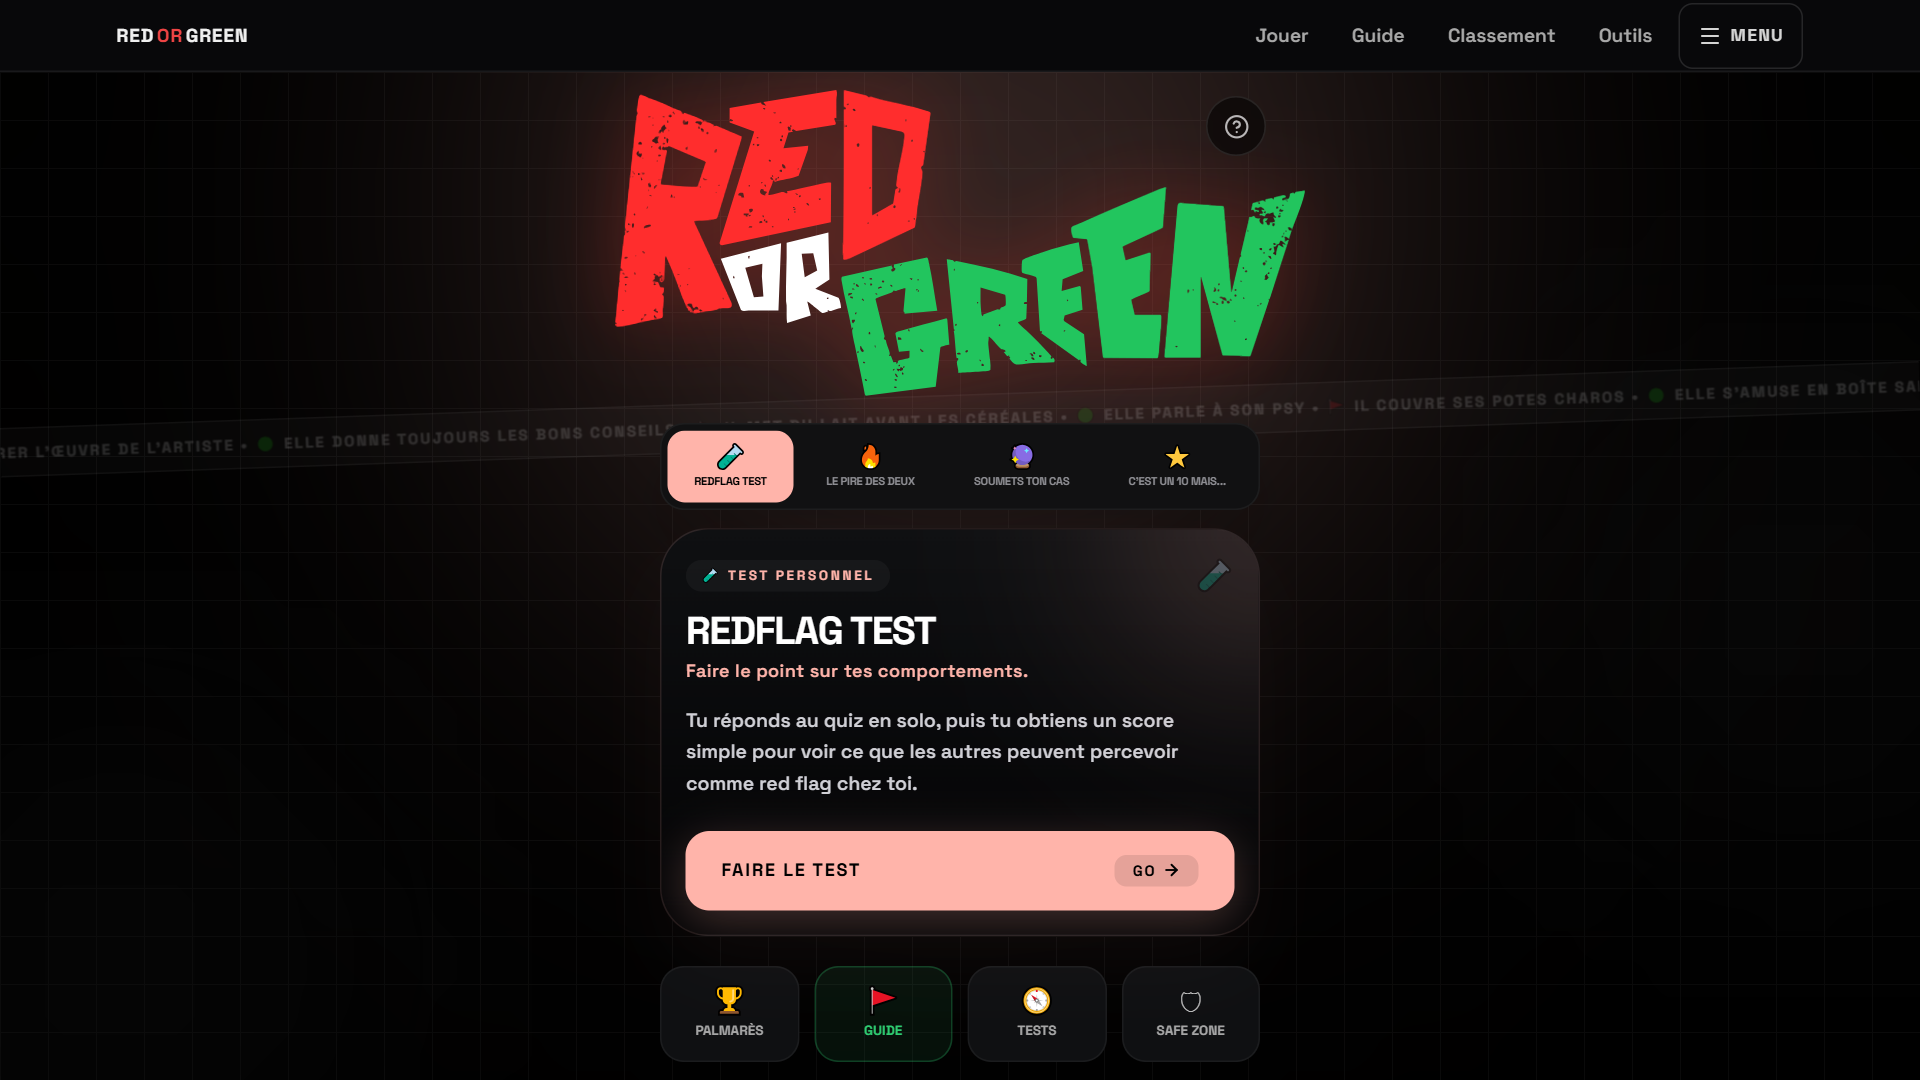
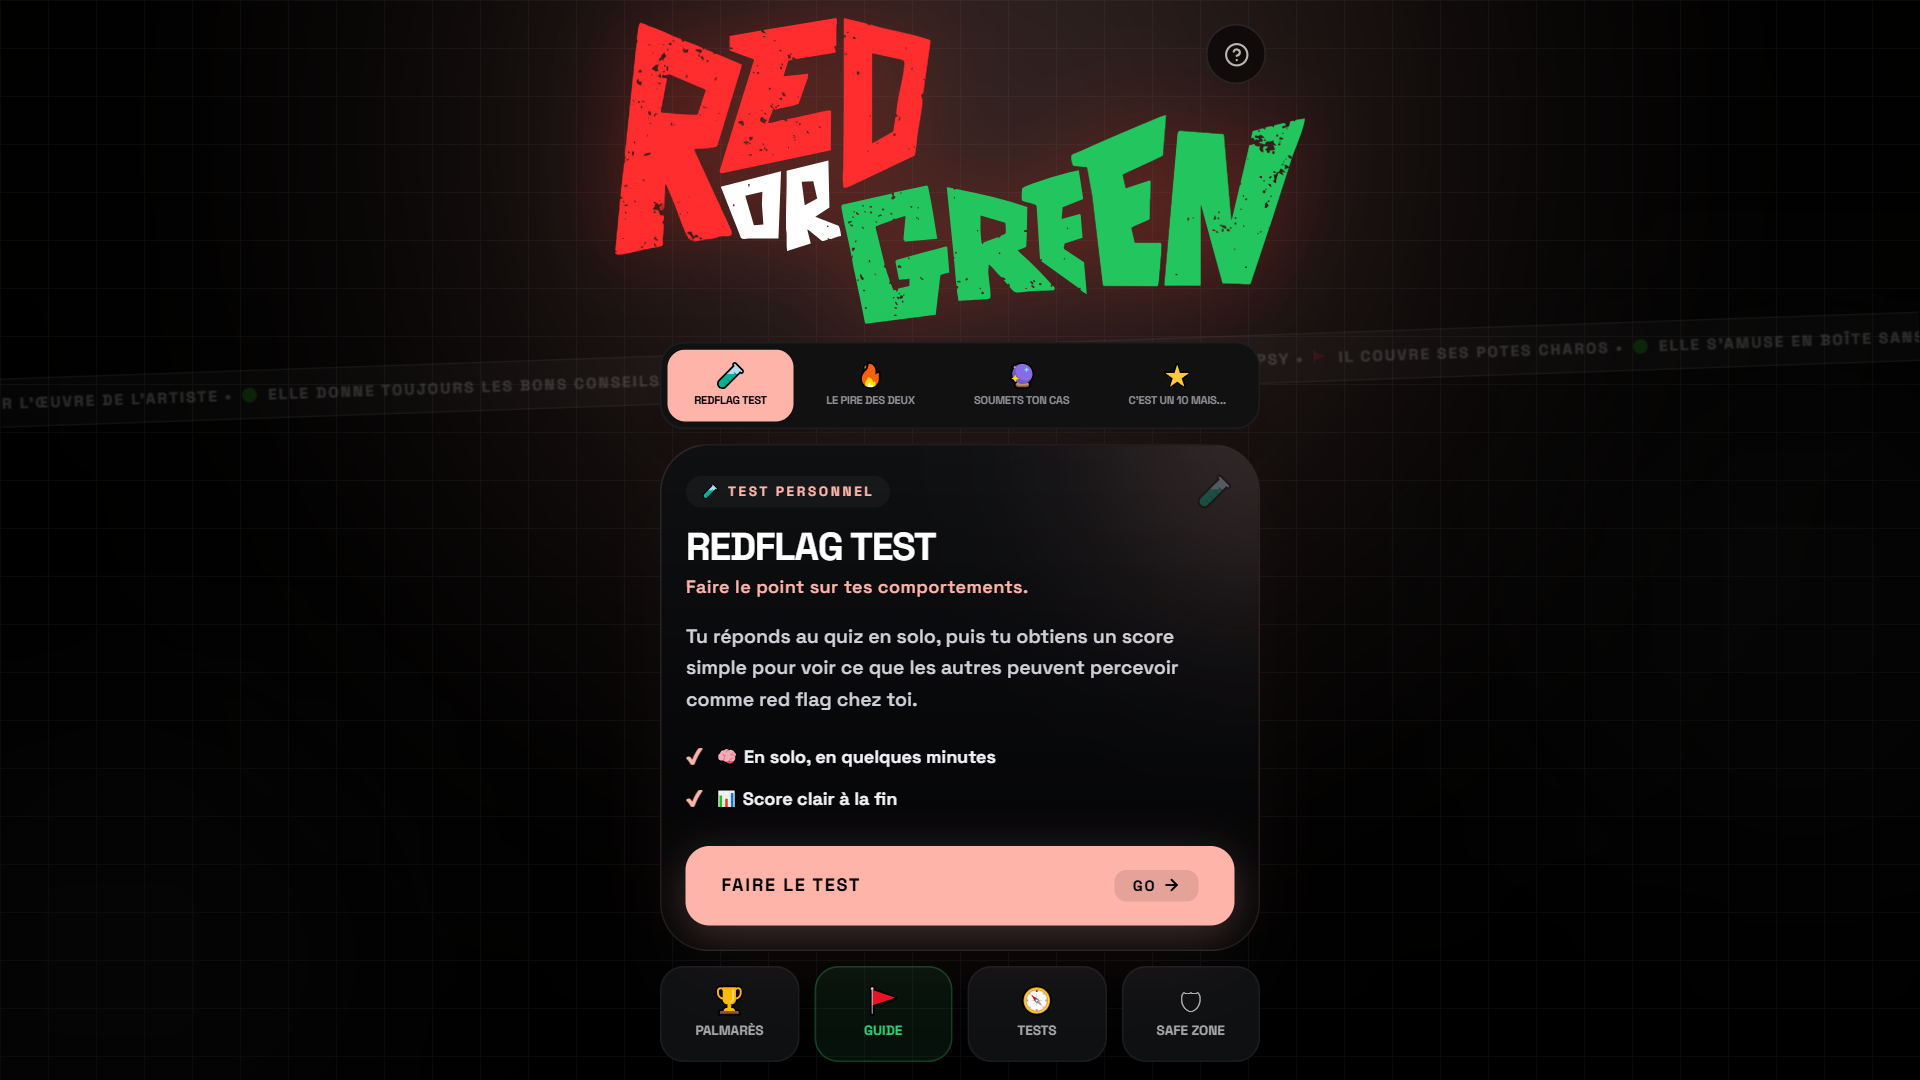
Accueil : retirer la barre de menu et resserrer la mise en page
Quatre corrections a la passe precedente, sur retour d'usage.

La barre de navigation du site n'est plus rendue sur l'accueil. Elle y
repetait la marque une seconde fois, vingt pixels au-dessus du logo, pour
52 px de hauteur pris sur l'ecran ou chaque pixel se dispute au
descriptif des jeux. Le plan du site reste atteignable par le pied de
page, replie juste dessous, et l'accueil porte deja sa propre navigation
— quatre onglets de jeu et quatre raccourcis. La barre reste presente
partout ailleurs, ou elle est le seul chemin visible vers le reste du
site. Le hub occupe desormais `100dvh` pleine hauteur et degage l'encoche
lui-meme.

L'espace entre la rangee d'onglets et la carte venait d'un melange de
marges disparates sur chaque enfant, dont la carte se centrait dans
l'espace restant : le vide se creusait donc au-dessus ET au-dessous
d'elle. Les ecarts sont desormais uniformes et portes par le conteneur,
et la carte remplit ce qui reste au lieu d'y flotter. Son texte se centre
dans sa hauteur, le bouton reste cale en bas — sous le pouce.

Le logo retrouve la taille qu'il avait : les paliers qui le reduisaient
sur ecran court sont retires, la place gagnee sur la barre les rend
inutiles.

Le palier destine a l'iPhone SE de 2016 (320x568) est abandonne. Il
masquait l'accroche des cartes, qui redevient visible partout.

Verifie sur les quatre jeux et six formats, de 360x640 a 430x932 plus le
bureau : rien n'est rogne, descriptif et accroche sont visibles, et la
[…]

diff --git a/game/src/app/HubClient.tsx b/game/src/app/HubClient.tsx
@@ -170,7 +170,7 @@ export function HubClient() {
   const activeCard = CARDS_DATA[selectedVibe];
 
   return (
-    <div className="relative min-h-[calc(100dvh-var(--header-h,3rem))] overflow-hidden bg-[#000000] text-[#E2E2E2] selection:bg-[#FF3B30]/30 selection:text-white">
+    <div className="relative min-h-dvh overflow-hidden bg-[#000000] text-[#E2E2E2] selection:bg-[#FF3B30]/30 selection:text-white">
       {/* Dynamic Background Shader & Grid */}
       <div className="absolute inset-0 z-0 overflow-hidden pointer-events-none">
         {/* Sleek matrix grid */}
@@ -214,10 +214,15 @@ export function HubClient() {
           de l'écran. Un plafond réel donne son sens au `flex-1` de la carte —
           elle prend ce qui reste, ni plus, et fait défiler son texte au-dedans
           si nécessaire. Le hub tient alors sur un écran par construction, pas
-          par ajustement de valeurs. */}
+          par ajustement de valeurs.
+
+          `100dvh` pleine hauteur, sans soustraire `--header-h` : la barre de
+          navigation du site n'est pas rendue sur cette route (voir
+          `SiteHeader`). Le rembourrage haut dégage l'encoche à sa place. */}
       <main
         id="main-content"
-        className="relative z-10 mx-auto flex h-[calc(100dvh-var(--header-h,3rem))] w-full max-w-110 flex-col items-center justify-between px-5 py-6 [@media(max-height:1000px)]:py-3 [@media(max-height:700px)]:py-2"
+        className="relative z-10 mx-auto flex h-dvh w-full max-w-110 flex-col items-center gap-3 [@media(max-height:1000px)]:gap-2.5 px-5 pb-6 [@media(max-height:1000px)]:pb-3"
+        style={{ paddingTop: 'calc(env(safe-area-inset-top, 0px) + 0.75rem)' }}
       >
         
         {/* 1. Header (Minimalist & Branding Focus)
@@ -226,12 +231,12 @@ export function HubClient() {
             doigt, si bien que cette consigne coûtait une vingtaine de pixels
             pour redire ce que l'interface montre. Le geste de balayage
             fonctionne toujours. Ces pixels vont au descriptif des jeux. */}
-        <header className="w-full flex flex-col items-center pt-2 [@media(max-height:1000px)]:pt-0">
+        <header className="w-full shrink-0 flex flex-col items-center">
           {/* Centered Brand Logo - enlarged and dominant.
               Porté par le h1 : la page n'avait aucun titre de niveau 1, le
               logo n'étant qu'une image. Le nom accessible du titre vient de
               l'attribut alt — rien n'est ajouté de masqué. */}
-          <h1 className="py-2 [@media(max-height:1000px)]:py-0 scale-100 hover:scale-[1.01] active:scale-95 transition-transform duration-200">
+          <h1 className="scale-100 hover:scale-[1.01] active:scale-95 transition-transform duration-200">
             <Image
               src="/logo-rog-new.svg"
               alt="Red or Green — repérer les toxicités ordinaires"
@@ -243,7 +248,7 @@ export function HubClient() {
               height={86}
               priority
               draggable={false}
-              className="h-auto w-[88vw] [@media(max-height:1000px)]:w-[62vw] [@media(max-height:700px)]:w-[48vw] [@media(max-height:600px)]:w-[40vw] max-w-115 object-contain drop-shadow-[0_0_28px_rgba(255,59,48,0.3)]"
+              className="h-auto w-[88vw] [@media(max-height:1000px)]:w-[62vw] max-w-115 object-contain drop-shadow-[0_0_28px_rgba(255,59,48,0.3)]"
             />
           </h1>
         </header>
@@ -264,7 +269,7 @@ export function HubClient() {
         </button>
 
         {/* 2. Vibe Selector Capsule (Sliding layout indicator for 4 Games) */}
-        <div className="w-full bg-[#111112] border border-white/5 rounded-2xl p-1 mt-4 flex justify-between gap-1 relative shadow-2xl">
+        <div className="w-full shrink-0 bg-[#111112] border border-white/5 rounded-2xl p-1 flex justify-between gap-1 relative shadow-2xl">
           {(Object.keys(CARDS_DATA) as PersonaKey[]).map((key) => {
             const isSelected = selectedVibe === key;
             const data = CARDS_DATA[key];
@@ -304,7 +309,7 @@ export function HubClient() {
             et le hub débordait de la fenêtre — 762 px réclamés pour 592 sur un
             360×640, très répandu. Le bouton de lancement tombait alors pile sur
             la ligne de flottaison, à moitié sous la barre de navigation. */}
-        <div className="w-full my-6 [@media(max-height:1000px)]:my-3 [@media(max-height:700px)]:my-1.5 flex-1 min-h-0 flex flex-col justify-center">
+        <div className="w-full flex-1 min-h-0 flex flex-col">
           {/* `initial={false}` : la carte est l'élément LCP de la page. Sans
               cela elle est rendue à opacity 0 et n'apparaît qu'après
               l'hydratation, ce qui repousse le LCP de plusieurs secondes sur
@@ -317,7 +322,7 @@ export function HubClient() {
               exit={{ opacity: 0, scale: 0.95, y: -15 }}
               transition={{ duration: 0.25, ease: 'easeOut' }}
               whileHover={{ y: -4 }}
-              className="relative w-full min-h-0 max-h-full rounded-4xl border bg-linear-to-b from-[#0F1012] to-[#040405] p-6.5 [@media(max-height:1000px)]:p-4 [@media(max-height:700px)]:p-3.5 shadow-[0_30px_60px_-15px_rgba(0,0,0,0.85)] flex flex-col justify-between overflow-hidden"
+              className="relative w-full h-full min-h-0 rounded-4xl border bg-linear-to-b from-[#0F1012] to-[#040405] p-6.5 [@media(max-height:1000px)]:p-4 [@media(max-height:700px)]:p-3.5 shadow-[0_30px_60px_-15px_rgba(0,0,0,0.85)] flex flex-col justify-between overflow-hidden"
               style={{
                 borderColor: `${activeCard.themeColor}22`,
                 boxShadow: `0 25px 50px -12px ${activeCard.themeColor}0C`
@@ -340,7 +345,7 @@ export function HubClient() {
                   réduirait alors au seul bouton. `min-h-0` seul suffit — le
                   bloc prend sa hauteur naturelle, et ne se comprime que
                   lorsque le `max-h-full` de la carte l'y oblige. */}
-              <div className="min-h-0 overflow-y-auto overscroll-contain scrollbar-hide space-y-4 [@media(max-height:1000px)]:space-y-2.5 [@media(max-height:700px)]:space-y-2">
+              <div className="my-auto min-h-0 overflow-y-auto overscroll-contain scrollbar-hide space-y-4 [@media(max-height:1000px)]:space-y-2.5 [@media(max-height:700px)]:space-y-2">
                 {/* Mode Tag */}
                 <div className="flex items-center justify-between">
                   <span 
@@ -368,7 +373,7 @@ export function HubClient() {
                   >
                     {activeCard.title}
                   </h2>
-                  <p className="text-xs font-semibold tracking-wide [@media(max-height:600px)]:hidden" style={{ color: activeCard.themeColor }}>
+                  <p className="text-xs font-semibold tracking-wide" style={{ color: activeCard.themeColor }}>
                     {activeCard.tagline}
                   </p>
                 </div>
@@ -384,9 +389,9 @@ export function HubClient() {
                 </p>
 
                 {/* Specs / Bullet points */}
-                <ul className="space-y-2 [@media(max-height:600px)]:space-y-1 pt-2 [@media(max-height:600px)]:pt-1">
+                <ul className="space-y-2 pt-2">
                   {activeCard.bullets.map((bullet, idx) => (
-                    <li key={idx} className="flex items-center gap-2 text-[12px] [@media(max-height:600px)]:text-[11px] font-black text-[#F0F0F4]">
+                    <li key={idx} className="flex items-center gap-2 text-[12px] font-black text-[#F0F0F4]">
                       <span className="text-sm select-none" style={{ color: activeCard.themeColor }}>✔</span>
                       <span>{bullet}</span>
                     </li>
@@ -441,7 +446,7 @@ export function HubClient() {
             la grille 2×2 coûtait 144 px sous la carte, soit l'essentiel du
             débordement sur un 360×640. Les quatre entrées restent visibles
             dans les deux cas — seule leur disposition change. */}
-        <section className="w-full shrink-0 grid grid-cols-4 [@media(min-height:1001px)]:grid-cols-2 gap-2.5 mt-2 [@media(max-height:700px)]:mt-1">
+        <section className="w-full shrink-0 grid grid-cols-4 [@media(min-height:1001px)]:grid-cols-2 gap-2.5">
           {SHORTCUTS.map((shortcut) => {
             const content = (
               <>

diff --git a/game/src/components/ui/SiteHeader.tsx b/game/src/components/ui/SiteHeader.tsx
@@ -22,7 +22,14 @@ import Link from 'next/link';
 import { usePathname } from 'next/navigation';
 import { Menu } from 'lucide-react';
 
-const HIDDEN_PATHS = [/^\/admin(\/|$)/, /^\/dixmais\/admin(\/|$)/];
+/**
+ * L'accueil est exclu : il porte déjà le logo en grand, la rangée d'onglets
+ * des quatre jeux et celle des quatre raccourcis. La barre y répétait la
+ * marque une seconde fois, vingt pixels au-dessus du logo, et coûtait 52 px
+ * de hauteur sur l'écran où chaque pixel se dispute au descriptif des jeux.
+ * Le plan du site reste atteignable par le pied de page, replié juste dessous.
+ */
+const HIDDEN_PATHS = [/^\/$/, /^\/admin(\/|$)/, /^\/dixmais\/admin(\/|$)/];
 
 /** Groupée par thème, comme le demandent les consignes de qualité. */
 const NAV_SECTIONS: {
